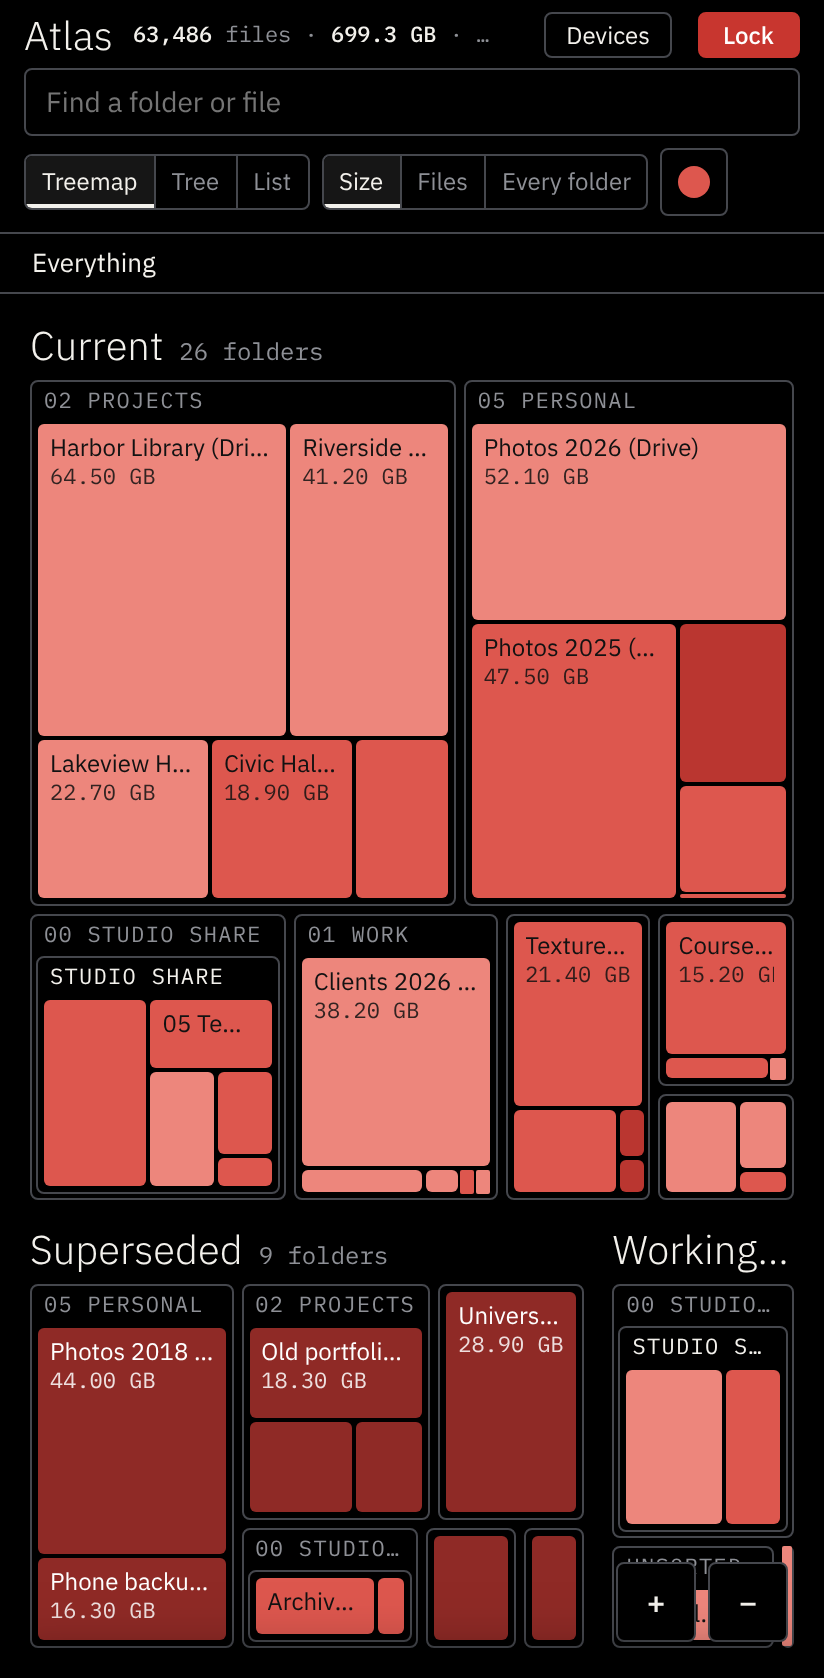
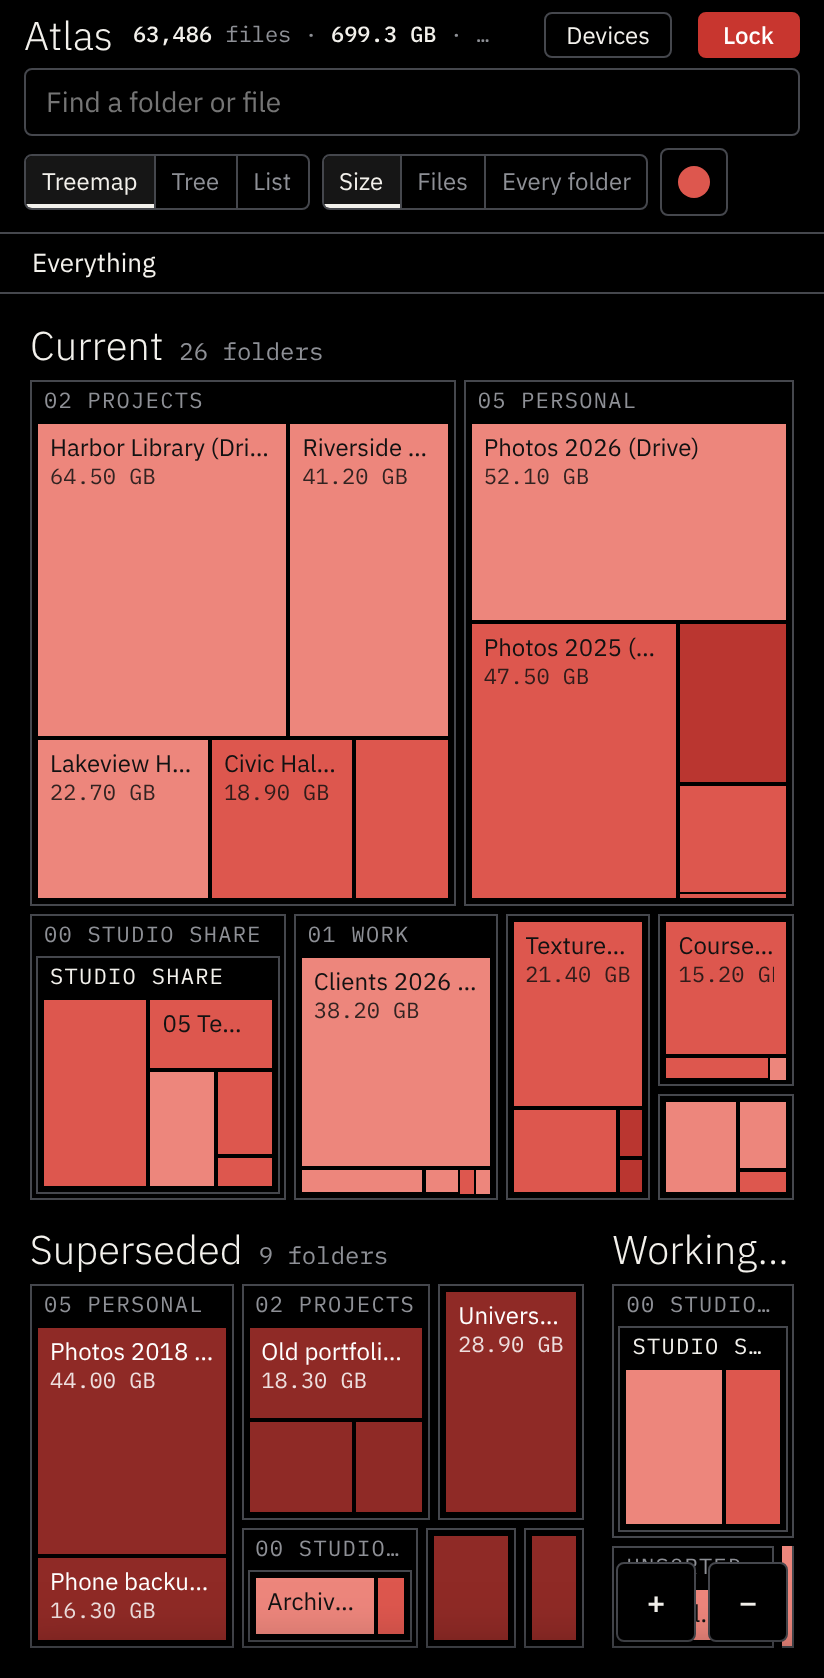
Map: square corners on every tile, folder and category box
Claude-Session: https://claude.ai/code/session_012BwbvXrV3QjzvqhBN59BdU

Changed region(s): [[0.3034, 0.9297, 0.4551, 0.9917]]

diff --git a/map.html b/map.html
@@ -65,7 +65,7 @@ button:focus-visible, input:focus-visible, select:focus-visible { outline: 2px s
 .crumbs button:hover { background: var(--surface-2); }
 .crumbs span { color: var(--dim); }
 .legend { display: flex; flex-wrap: wrap; gap: 4px 14px; align-items: center; margin-left: auto; }
-.legend i { display: inline-block; width: 14px; height: 14px; border-radius: 3px; vertical-align: -2px; margin-right: 5px; }
+.legend i { display: inline-block; width: 14px; height: 14px; border-radius: 0; vertical-align: -2px; margin-right: 5px; }
 .legend .hatch { background: var(--r3); background-image: repeating-linear-gradient(45deg, var(--hatch) 0 2px, transparent 2px 6px); }
 .legend .off { background: var(--surface); border: 1px dashed var(--dim); }
 .body { display: grid; grid-template-columns: minmax(0, 1fr) 340px; min-height: 0; }
@@ -74,13 +74,13 @@ button:focus-visible, input:focus-visible, select:focus-visible { outline: 2px s
 .region .h { position: absolute; left: 0; right: 0; top: 0; overflow: hidden; white-space: nowrap; text-overflow: ellipsis; pointer-events: auto; cursor: zoom-in; border: 0; background: none; text-align: left; padding: 0 2px; color: var(--ink); }
 .region.state .h { font: 700 18px/26px var(--f-display); }
 .region.state .h small { font: 12px var(--f-mono); color: var(--dim); margin-left: 8px; }
-.region.cat { background: var(--surface); border: 1px solid var(--line); border-radius: 4px; }
+.region.cat { background: var(--surface); border: 1px solid var(--line); border-radius: 0; }
 .region.cat .h { font: 600 12px/18px var(--f-display); letter-spacing: .03em; color: var(--dim); padding: 0 6px; }
-.region.tree { background: var(--surface); border: 1px solid var(--line); border-radius: 4px; }
+.region.tree { background: var(--surface); border: 1px solid var(--line); border-radius: 0; }
 .region.tree .h { font: 700 13px/18px var(--f-display); letter-spacing: .03em; color: var(--ink); padding: 0 6px; }
 .bandh { position: absolute; left: 0; top: 0; right: 0; font: 700 18px/26px var(--f-display); white-space: nowrap; overflow: hidden; text-overflow: ellipsis; }
 .bandh small { font: 12px var(--f-mono); color: var(--dim); margin-left: 8px; }
-.tile { position: absolute; border: 0; border-radius: 3px; padding: 4px 6px; overflow: hidden; text-align: left; cursor: pointer; font: 600 12px/1.25 var(--f-body); display: flex; flex-direction: column; justify-content: flex-start; gap: 1px; }
+.tile { position: absolute; border: 0; border-radius: 0; padding: 4px 6px; overflow: hidden; text-align: left; cursor: pointer; font: 600 12px/1.25 var(--f-body); display: flex; flex-direction: column; justify-content: flex-start; gap: 1px; }
 .tile.a1 { background-color: var(--r1); color: var(--t1); } .tile.a2 { background-color: var(--r2); color: var(--t2); }
 .tile.a3 { background-color: var(--r3); color: var(--t3); } .tile.a4 { background-color: var(--r4); color: var(--t4); }
 .tile.tree { background-image: repeating-linear-gradient(45deg, var(--hatch) 0 2px, transparent 2px 7px); }
@@ -144,7 +144,7 @@ dt { color: var(--dim); } dd { margin: 0; font-variant-numeric: tabular-nums; }
 .lrow .t { white-space: nowrap; overflow: hidden; text-overflow: ellipsis; }
 .lrow .car { width: 12px; flex: none; color: var(--dim); }
 .lrow .num { font: 12px var(--f-mono); color: var(--dim); text-align: right; font-variant-numeric: tabular-nums; }
-.lrow .sw { width: 12px; height: 12px; border-radius: 3px; flex: none; }
+.lrow .sw { width: 12px; height: 12px; border-radius: 0; flex: none; }
 .lrow .sw.a1 { background: var(--r1); } .lrow .sw.a2 { background: var(--r2); } .lrow .sw.a3 { background: var(--r3); } .lrow .sw.a4 { background: var(--r4); }
 .lrow .sw.tree { background-image: repeating-linear-gradient(45deg, var(--hatch) 0 2px, transparent 2px 5px); }
 .lrow.sel { background: var(--surface-2); box-shadow: inset 0 0 0 2px var(--ink); }
@@ -179,9 +179,9 @@ header { grid-row: 1; } .sub { grid-row: 2; }
 #map.tmview { overflow: hidden; touch-action: none; }
 .tmz { position: absolute; left: 0; top: 0; transform-origin: 0 0; will-change: transform; }
 .tile.nolab { padding: 0; }                      /* padding only around a label: an empty tile is exactly its size */
-.tile.xs { padding: 0; border-radius: 1px; }
+.tile.xs { padding: 0; }
 .tile.more { font-style: italic; }
-.region.fold { background: color-mix(in srgb, var(--surface) 70%, transparent); border: 1px solid var(--line); border-radius: 3px; }
+.region.fold { background: color-mix(in srgb, var(--surface) 70%, transparent); border: 1px solid var(--line); border-radius: 0; }
 .region.fold .h { font: 400 12px/20px var(--f-body); color: var(--ink); padding: 0 6px; cursor: pointer; }
 .region.fold .h small { font: 11px var(--f-mono); color: var(--dim); margin-left: 6px; }
 .region.fold.sel { box-shadow: inset 0 0 0 2px var(--ink); }
